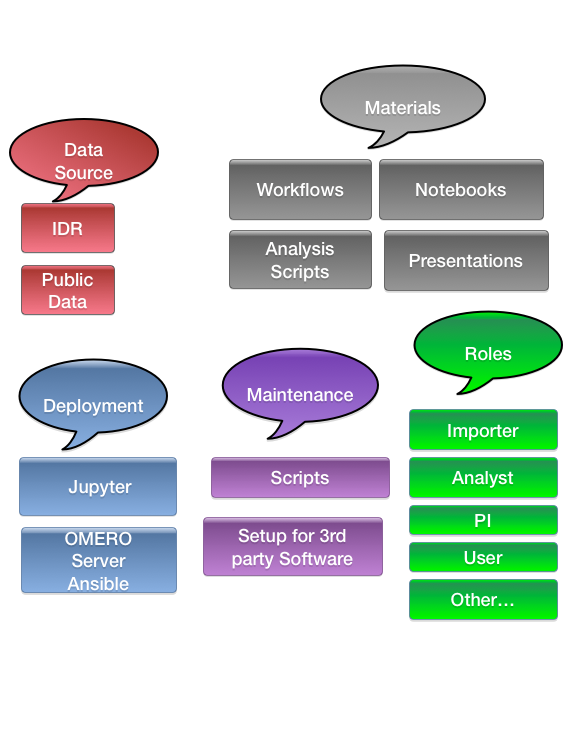
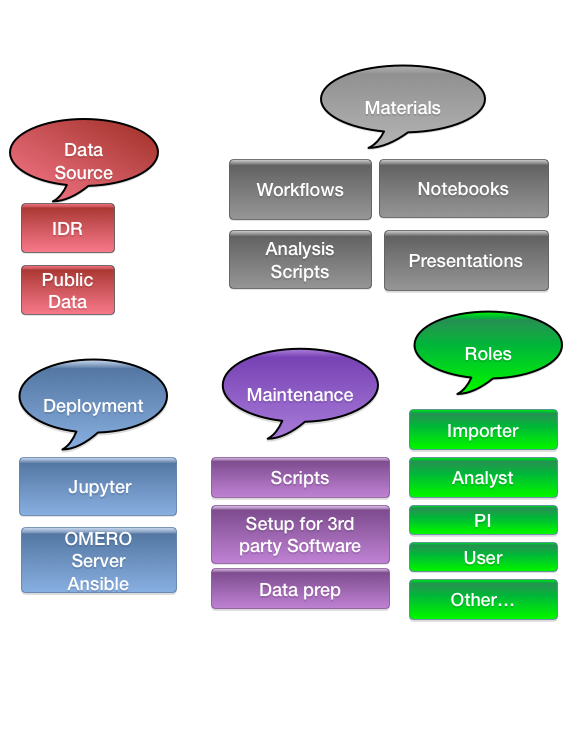
Update screenshot and improve slides

Changed region(s): [[0.3438, 0.6903, 0.6875, 0.8404], [0.6562, 0.2101, 0.9688, 0.3001]]

diff --git a/2018/Users-Meeting/Talks/Tools-OME-Training/slides/index.html b/2018/Users-Meeting/Talks/Tools-OME-Training/slides/index.html
@@ -64,17 +64,11 @@
                 </section>
 
                 <section>
-                    <h2>Aims</h2>
+                    <h2>First Aim</h2>
                     <ul>
                         <li>Provide training materials that <i>join pieces</i> of the ecosystem together</li>
-                        <li>Provide reusable training materials</li>
-                        <li>Provide resources for setting up training sessions</li>
-                        <li>Have resources under Version Control</li>
-                        <li>Have resources publicly available</li>
                     </ul>
                 </section>
-
-
                 <section>
                     <h2>Joining the pieces...</h2>
                     <img src="images/training-workflows.png"/>
@@ -82,6 +76,15 @@
                 <section>
                     <h2>Workflows & Permissions</h2>
                     <img src="images/training-workflows-permissions.png"/>
+                </section>
+                <section>
+                    <h2>Aims</h2>
+                    <ul>
+                        <li>Provide reusable training materials</li>
+                        <li>Provide resources for setting up training sessions</li>
+                        <li>Have resources under Version Control</li>
+                        <li>Have resources publicly available</li>
+                    </ul>
                 </section>
                 <section>
                     <h2>What's available</h2>
@@ -93,11 +96,10 @@
                         <li>All materials are <b>publicly</b> available</li>
                         <li>Dedicated servers:
                             <ul>
-                                <li>OMERO: <a href="http://outreach.openmicroscopy.org/">http://outreach.openmicroscopy.org/</a></li>
-                                <li>IDR: <a href="https://idr.openmicroscopy.org/">https://idr.openmicroscopy.org/</a></li>
+                                <li>OMERO: <a href="http://outreach.openmicroscopy.org/" target="_blank">http://outreach.openmicroscopy.org/</a></li>
+                                <li>IDR: <a href="https://idr.openmicroscopy.org/" target="_blank">https://idr.openmicroscopy.org/</a></li>
                             </ul>
                         </li>
-                        <li>Portable server</li>
                     </ul>
                 </section>
                 <section>
@@ -105,13 +107,15 @@
                     <ul>
                         <li>Data: 
                             <ul>
-                                <li><a href="https://downloads.openmicroscopy.org/images/">https://downloads.openmicroscopy.org/images/</a></li>
+                                <li><a href="https://downloads.openmicroscopy.org/images/" target="_blank">https://downloads.openmicroscopy.org/images/</a></li>
+                                <li>IDR: <a href="https://idr.openmicroscopy.org//" target="_blank">https://idr.openmicroscopy.org/</a></li>
+                                <li>Other e.g. <a href="https://zenodo.org/record/16956#.Wt-UNtPwbdc" target="_blank">https://zenodo.org/record/16956#.Wt-UNtPwbdc</a></li>
                             </ul>
                         </li>
                         <li>Presentations/Printout:
                             <ul>
-                                <li><a href="https://downloads.openmicroscopy.org/presentations">https://downloads.openmicroscopy.org/presentations</a></li>
-                                <li><a href="https://github.com/ome/presentations">https://github.com/ome/presentations</a></li>
+                                <li><a href="https://downloads.openmicroscopy.org/presentations" target="_blank">https://downloads.openmicroscopy.org/presentations</a></li>
+                                <li><a href="https://github.com/ome/presentations" target="_blank">https://github.com/ome/presentations</a></li>
                             </ul>
                         </li>
                     </ul>
@@ -120,38 +124,29 @@
                 <section>
                     <h2>New repositories: ome/training-*</h2>
                     <ul>
-                        <li>Overarching repository: <a href="https://github.com/ome/training-repos">ome/training-repos</a></li>
+                    <li>Overarching repository: <a href="https://github.com/ome/training-repos">ome/training-repos</a>
+                            <dl>
                             <ul>
-                            	<li><a href="https://github.com/openmicroscopy/prod-playbooks">Ansible playbook</a> to deploy a training server</li>
-                            	<li>Training server <a href="https://github.com/ome/training-scripts/tree/master/maintenance">maintenance/data preparation</a></li>
-                                <li>Training <a href="https://github.com/ome/training-scripts/tree/master/scripts">scripts</a> e.g. Python, Java, Jython, etc.</li>
-                                <li><a href="https://github.com/ome/training-repos/blob/master/data.md">Data</a> and <a href="https://github.com/ome/training-repos/blob/master/presentations.md">presentations</a> used for a given session</li>
+                            	<li><dt class="fragment" data-fragment-index="1"><a href="https://github.com/openmicroscopy/prod-playbooks">Ansible playbook</a> to deploy a training server</dt></li>
+                            	<li><dt class="fragment" data-fragment-index="2">Training server <a href="https://github.com/ome/training-scripts/tree/master/maintenance" target="_blank">maintenance/data preparation</a></dt></li>
+                                <li><dt class="fragment" data-fragment-index="3">Training <a href="https://github.com/ome/training-scripts/tree/master/scripts" target="_blank">scripts</a> e.g. Python, Java, Jython, etc.</dt></li>
+                                <li><dt class="fragment" data-fragment-index="4"><a href="https://github.com/ome/training-repos/blob/master/data.md" target="_blank">Data</a> and <a href="https://github.com/ome/training-repos/blob/master/presentations.md" target="_blank">presentations</a> used for a given session</dt>
                             </ul>
-                        </li>
-                    </ul>
+                            </dl>
+                      </li>
+                  </ul>
                 </section>
                 <section>
-                    <h2>Resources: notebooks</h2>
+                    <h2>Analysis</h2>
+                    <a href="https://idr-analysis.openmicroscopy.org/" target="_blank"><img src="images/idr-analysis.png"/></a>
+                </section>
+                <section>
+                    <h2>Sets of Notebooks</h2>
                     <ul>
-                        <li>Dedicated computational environment</a></li>
-                            <ul>
-                                <li>We use <a href="https://github.com/jupyterlab/jupyterlab">Jupyterlab</a>
-                                    <ul>
-                                        <li>Analysis: <a href="https://idr-analysis.openmicroscopy.org/">https://idr-analysis.openmicroscopy.org/</a></li>
-                                    </ul>
-                                </li>
-                                <li>Deployment available on GitHub</li>
-                            </ul>
-                        </li>
-                        <li>Sets of notebooks</a></li>
-                            <ul>
-                                <li>For OMERO <a href="https://github.com/ome/training-notebooks">training</a></li>
-                                <li>For IDR <a href="https://github.com/IDR/idr-notebooks">training</a></li>
-                            </ul>
-                        </li>
+                        <li>For OMERO <a href="https://github.com/ome/training-notebooks" target="_blank">training</a></li>
+                        <li>For IDR <a href="https://github.com/IDR/idr-notebooks" target="_blank">training</a></li>
                     </ul>
                 </section>
-
 
                 <section>
                     <h1>Thank you</h1>
